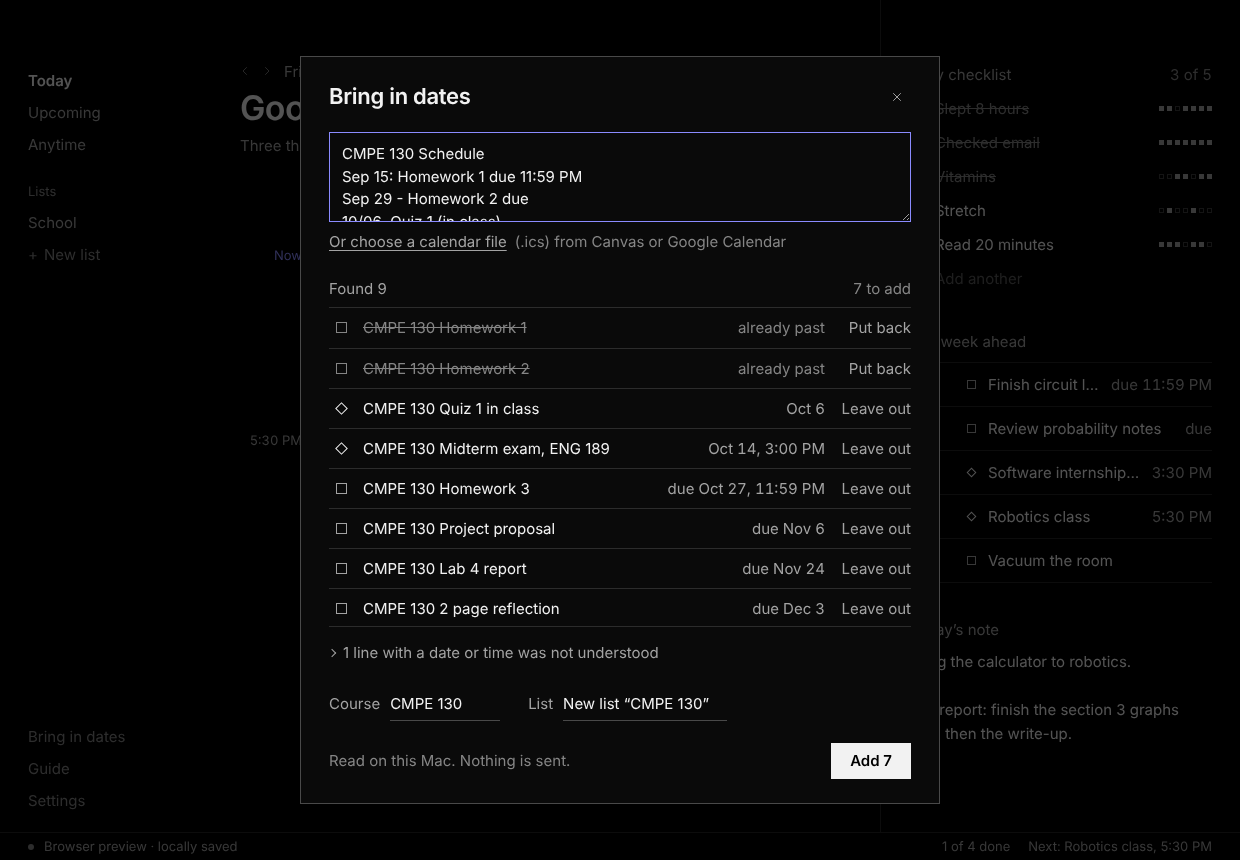
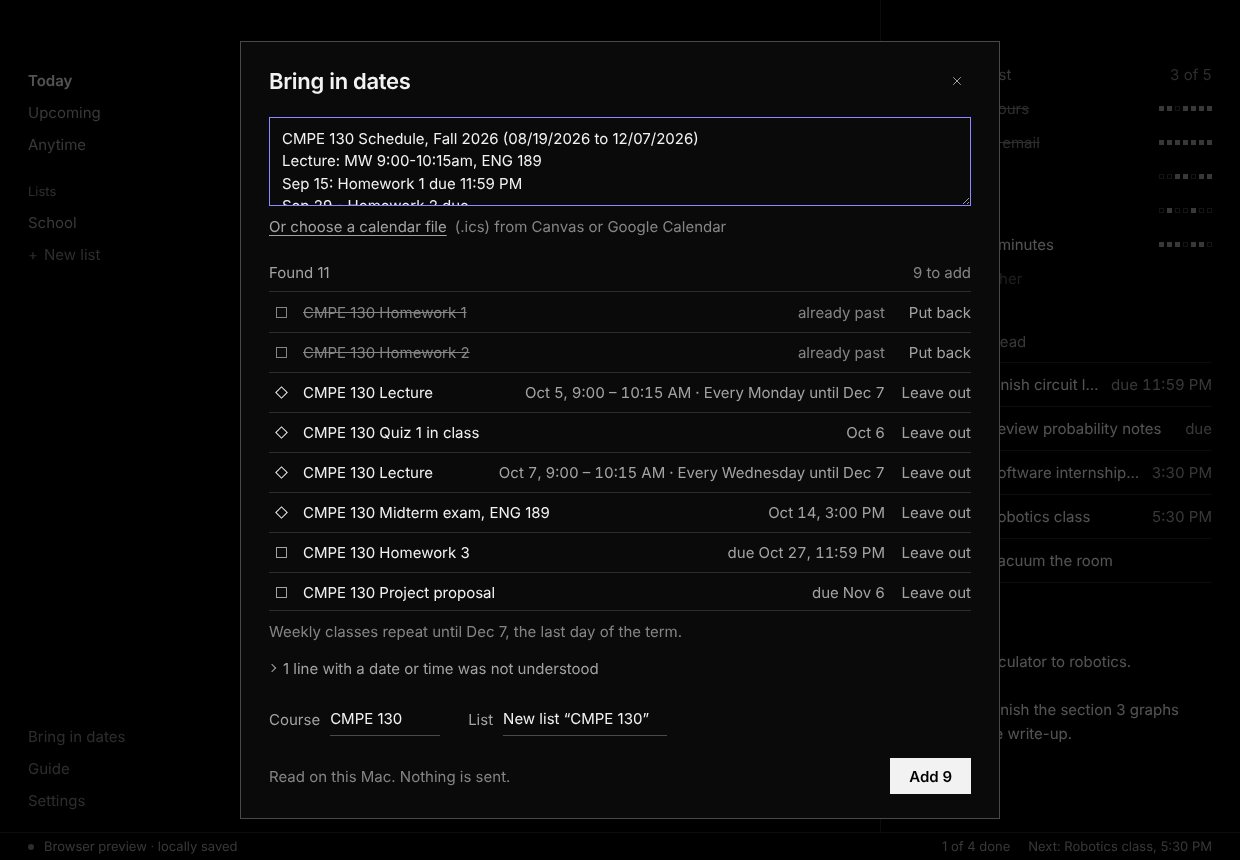
Describe end times, term dates and the split; refresh the import screenshot
README: a typed line with a time range and a last day; a syllabus's term
dates; the new test counts and what the page tests cover; two more entries
under Problems I ran into (one file of 3,063 lines, and arrow keys that
worked in the check and not in the app); the limitation about weekly classes
corrected.
ENGINEERING: how the interface is organized now, the parser's new passes,
how a series ends when only one occurrence is stored, and how a term's dates
are used.
DESIGN: a field that cannot apply is not shown.
The import screenshot shows a weekly class ending with the term.

diff --git a/README.md b/README.md
@@ -72,8 +72,10 @@ Cmd+K finds any task or event, jumps to a view, or runs a command.
 
 A syllabus pasted into the app. Each line that carries a date is shown as what
 it will become before anything is added. Two deadlines that have already
-passed start left out. One line gives a span of days, and is counted as not
-understood instead of being guessed at. The course code found at the top
+passed start left out. The lecture's days and hours became two weekly events,
+and they stop on the last day of the term, which the first line gives. One
+line gives a span of days, and is counted as not understood instead of being
+guessed at. The course code found at the top
 leads each name and is offered as a new list.
 
 The screenshots use example data, not my own tasks. They were taken from the
@@ -93,6 +95,7 @@ Return.
 | `essay tomorrow due friday` | A task planned for tomorrow, due Friday |
 | `call dentist tomorrow 3pm` | An event tomorrow at 3:00 PM |
 | `robotics club every wednesday 5pm` | An event that repeats every Wednesday |
+| `cmpe 70 6-8:45pm every wednesday until dec 9` | An event from 6:00 to 8:45 PM every Wednesday, ending December 9 |
 | `club meeting every fourth wednesday` | A task on the fourth Wednesday of each month |
 | `laundry every other sunday` | A task every two weeks on Sunday |
 | `vitamins every day` | An item on the daily checklist |
@@ -120,6 +123,7 @@ app opens it too.
 | `Final exam: December 15, 2026 at 9:45 AM` | An event on December 15 at 9:45 AM |
 | `Monday, Wednesday, 10:30 AM to 11:45 AM, Art Building 133` under the heading `Lecture` | Two weekly events called Lecture, with the room |
 | `Oct 05` alone on a line, then `First Midterm Exam` on the next | An event on October 5 |
+| `Fall 2026 … 08/19/2026 to 12/07/2026` near the top | Not added. It is when the weekly classes stop, and which year the other dates belong to |
 | `Week 1 (Aug 24 – Aug 28): Introduction` | Not understood, and listed as such |
 | `Late work loses 10% per day.` | Passed over: it says nothing about when |
 
@@ -179,11 +183,12 @@ time handling, the parser, repeats, storage and testing in more detail.
 
 | What | Count | Covers |
 |---|---:|---|
-| Bringing dates in | 9 tests | A syllabus read line by line with the exact result checked; a real syllabus copied from a web page, read across its lines; weekly meetings; a calendar file with all-day, UTC and other-zone times, repeats and an ended series; a second import adding only what is new; damaged files |
+| Bringing dates in | 11 tests | A syllabus read line by line with the exact result checked; a real syllabus copied from a web page, read across its lines; weekly meetings; the term's own dates setting where weekly classes start and stop; a calendar file with all-day, UTC and other-zone times, repeats and an ended series; a second import adding only what is new; damaged files |
 | Undo and redo | 6 tests | Exact restore; typing merged into one step; decisions never merged; the step limit |
-| Date and repeat rules | 21 tests | Planned, due and reminder staying independent; daylight-saving gaps and repeats; month-end and leap-day repeats; intervals and "Nth weekday"; skipping; moving to another day; ticking and unticking the daily checklist and its week of history; rejecting bad imports |
+| Date and repeat rules | 23 tests | Planned, due and reminder staying independent; daylight-saving gaps and repeats; month-end and leap-day repeats; intervals and "Nth weekday"; a series stopping on its last day; skipping; moving to another day; ticking and unticking the daily checklist and its week of history; rejecting bad imports |
 | Access codes | 4 tests | The built-in SHA-256 against Node's at every block boundary; reading a code however it is typed; accepting only issued codes |
-| Typed-line parser | 18 tests | Dates, times, lists and repeats in different word orders; words that must not be read as dates |
+| Typed-line parser | 20 tests | Dates, times, time ranges, lists and repeats in different word orders; words that must not be read as dates |
+| What each page shows | 10 tests | Today's line above and below now; a missed plan told apart from a passed deadline; the order of a day in Upcoming; the week ahead; a day behind and a day ahead |
 | Summaries and day files | 3 tests | The morning summary sentence and the Markdown page for a day |
 | SQLite store (Rust) | 4 tests | Reopening, refusing a stale save, keeping the old state when a save is rejected, backup rotation |
 | Interface check | 1 scripted run | A real browser is driven through adding, completing, repeats, all three Upcoming layouts, pasting a syllabus, undo and redo, the keyboard, backup and restore, a deliberate crash and recovery, and layout at two window sizes |
@@ -228,6 +233,24 @@ unread lines that mention a date. The same syllabus now gives 31 things, with
 both midterms, the final, seven homework deadlines and the lecture and office
 hours. It is kept as a test, with the people's contact details replaced.
 
+**One file of 3,063 lines.** Every page, every action and forty pieces of
+state lived in one component, because each feature was quickest to add there.
+I split it into three folders: what the app knows and can do, one file per
+page, and the small pieces that take everything as arguments. The main file
+is now 277 lines. What made that safe was the scripted browser check: about
+1,600 lines of real clicks and keys, which passed on both sides of the split
+without one step being edited. The part I did not expect was what the split
+exposed. The working-out of what belongs on each page had been trapped inside
+the component where nothing could call it. Moved out as plain functions, it
+got ten tests of its own.
+
+**Arrow keys that worked in the check and not in the app.** Up and down were
+meant to move between rows. On my Mac they did nothing. The check had clicked
+a row first, and the keys only worked once a row already had the focus. And
+when they did move, the Mac's WebKit draws no focus ring on something focused
+by script, so there was nothing to see. The keys now work from anywhere on
+the page, and the app draws the row's cursor itself.
+
 **An update that did not seem to arrive.** Closing the window hides the app
 so that reminders and the Dock count keep working. That also meant installing
 a new build kept showing the old one, because the old copy was still running.
@@ -243,8 +266,9 @@ The install script now asks the running copy to quit before replacing it.
   but that is a one-time read, not a live connection.
 - The syllabus reader needs dates to be written out. A schedule given only
   as week numbers, or deadlines described in a paragraph, is mostly passed
-  over. A weekly class brought in this way has no end date; it has to be
-  removed when the term ends.
+  over. A weekly class stops with the term only when the syllabus gives the
+  term's dates with their years; otherwise it repeats until it is given a
+  last day.
 - An alert at an exact time needs the Mac to be on and awake, and Focus modes
   can silence it.
 - The parser understands English and US-style dates.

diff --git a/docs/ENGINEERING.md b/docs/ENGINEERING.md
@@ -7,7 +7,10 @@ that someone who has not seen the source can follow the decisions.
 
 ```text
 Interface (React, TypeScript)
-  screens, rows, the details column, Cmd+K
+  one file per page, rows, the details column, Cmd+K
+        |
+App state (React hooks)
+  where you are, every action with its Undo, the keyboard
         |
 Rules (plain TypeScript, no React, no Tauri)
   dates and time zones, repeats, the typed-line parser, the importer,
@@ -109,11 +112,13 @@ day, a deadline, a repeat and a list.
 It works in passes over the sentence:
 
 1. Find a list name at the end, or a `#tag` anywhere.
-2. Find a repeat phrase that starts with `every`.
-3. Find every date and time. Each one is either attached to the word before it
+2. Find a repeat phrase that starts with `every`, and a last day after
+   `until` if one follows it.
+3. Find a stretch of time, `6-8:45pm` or `2 to 3:30pm`, and keep its end.
+4. Find every date and time. Each one is either attached to the word before it
    (`due`, `by`, `on`) or stands alone.
-4. Whatever was matched is cut out. What remains is the title.
-5. Decide the kind. A time with no `due` makes an event. Otherwise it is a
+5. Whatever was matched is cut out. What remains is the title.
+6. Decide the kind. A time with no `due` makes an event. Otherwise it is a
    task.
 
 The hard part is not recognizing dates. It is **not** recognizing things that
@@ -140,6 +145,8 @@ A few decisions were about how people actually talk:
 - `due midnight` means the end of that day, not its first minute.
 - A weekday said with a date (`friday oct 16`) is one date, and the date wins
   if they disagree.
+- In `6-8:45pm` the "pm" belongs to both ends. In `11-1pm` it cannot, because
+  that would end before it starts, so the start is taken as the morning.
 
 ## Repeats
 
@@ -158,6 +165,14 @@ computes the rest when a screen needs them. Later occurrences are drawn with a
 dashed mark, and nothing is saved for them. This avoids generating hundreds of
 rows for "every day, forever", and it means changing the pattern changes every
 future date at once.
+
+**A last day.** A repeat can be given the last day it may fall on. Because
+only one occurrence is stored, ending a series is a comparison made in the
+four places that compute a next date: showing later occurrences, finishing
+one, skipping one, and the app moving a passed event forward. Each asks the
+same one-line question, "is the next date past the last day?", and stops if
+so. A repeating event that has run out is marked done by itself, so it leaves
+the day without anything being deleted.
 
 **What happens when one is missed** depends on what it is:
 
@@ -280,6 +295,15 @@ real syllabus.
   ("Lecture", "Office Hours") and carrying what follows the times as its
   place. "2-3pm" starts in the afternoon and "11-1pm" in the morning.
 
+- **The term's own dates.** A syllabus usually says once, near the top, when
+  the term runs: "08/19/2026 to 12/07/2026". That line is not a thing to add,
+  but it answers two questions nothing else on the page does. Weekly classes
+  start no earlier than the first day and repeat until the last. And a date
+  written without a year is placed inside the term, so "May 18" in a spring
+  syllabus read the October before is next May, where the nearest-date rule
+  alone would have called it five months ago. A span of a few days with
+  years on it is a break, not a term, and is left alone.
+
 A time with no day of its own means today in the add field. In a pasted page
 it is a footer clock, so the import passes it over. And of the lines that
 were not understood, only those that mention a date or a time are listed.
@@ -359,9 +383,34 @@ also alter the app to skip the check. Fixing either would need a server, and
 for an app whose point is that it stays on your Mac, I decided that was the
 wrong trade.
 
+## How the interface is organized
+
+The interface began as one component and grew to 3,063 lines: every page,
+every action and about forty pieces of state. It is now three folders with
+one rule each.
+
+| Folder | Rule | Holds |
+|---|---|---|
+| `app/` | Knows things, draws nothing | Where you are, every action with its Undo, the keyboard, the macOS hooks, and plain functions that work out what each page shows |
+| `views/` | One file per page | Today, a day, Upcoming as rows, columns and month, a list, Reminders, Trash, the two side columns |
+| `components/` | Knows nothing about the app | A row, the add field, the details, the month grid, Cmd+K. Everything arrives as arguments |
+
+One hook builds a single object holding the workspace, the clock, the
+navigation state and the actions, and hands it to every page through React
+context. A page asks for what it needs by name. This is not finer-grained
+than before, since any change still redraws the page, but the workspace is a
+few hundred items and that was never the cost. The cost was that nobody
+could find anything.
+
+Two details kept behaviour the same. The right column is one element whose
+contents change, as it was, so its width and scroll survive moving between
+pages. And the functions that decide what a page holds (what is above and
+below "now", the order of a day in Upcoming, the week ahead) take the
+workspace and the time and return lists, so they are tested by calling them.
+
 ## Testing approach
 
-The rules layer has 61 unit tests. They run in about a tenth of a second
+The rules layer has 77 unit tests. They run in about a tenth of a second
 because they call functions directly. Tests that involve dates set a fixed
 time zone and a fixed "today", so they give the same result on any machine on
 any day.
@@ -390,7 +439,8 @@ written checklist that is followed by hand on the Mac.
 - Read a syllabus written as paragraphs. The current reader needs a date on
   the same line as the thing it dates. Prose is the one place plain rules run
   out, and the only place I would consider a language model.
-- Split the main interface file. The five views still share one component and
-  its state. The pieces that could be separated without that (settings, the
-  guide, the checklist, the import dialog) already are.
+- Run the scripted browser check automatically on every change. The unit
+  tests, the type check and the build are quick to run anywhere; the browser
+  check measures layout, which depends on the fonts of the machine it runs
+  on, so it is still run by hand.
 - Sign and notarize the app so other students can install it.

diff --git a/docs/DESIGN.md b/docs/DESIGN.md
@@ -41,6 +41,12 @@ and rejected, because three shapes need a legend and two do not.
 typing `fri 5pm` or picking from a short list. There are no date pickers and
 no boxed buttons in the details.
 
+**A field that cannot apply is not shown.** An event with a time has an
+Ends line; an all-day event does not. Something that repeats has an Until
+line; something that happens once does not. The first version put the whole
+stretch in one field, "Wednesday, 6:00 PM – 8:45 PM", and at the column's
+usual width the end was cut off. Two short values always fit.
+
 **Placeholders look like placeholders.** Prompt text is much fainter than real
 text. In an early build the two were close enough that an empty field looked
 filled in.
